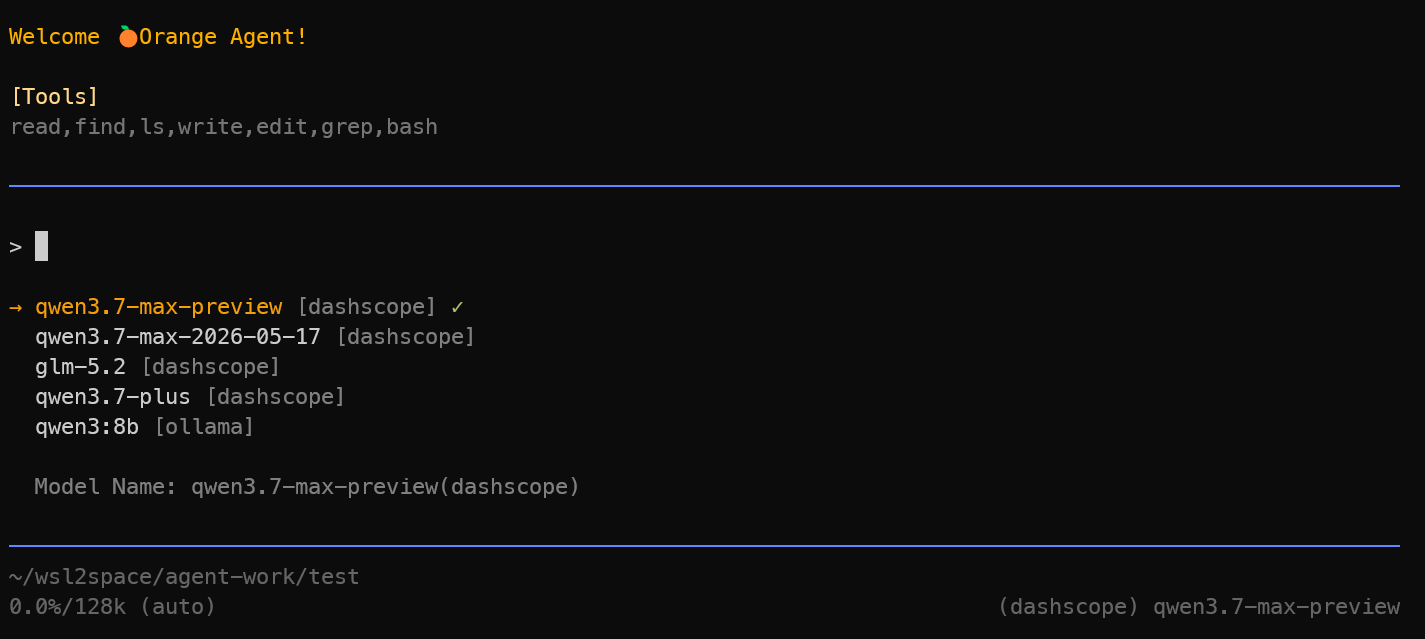
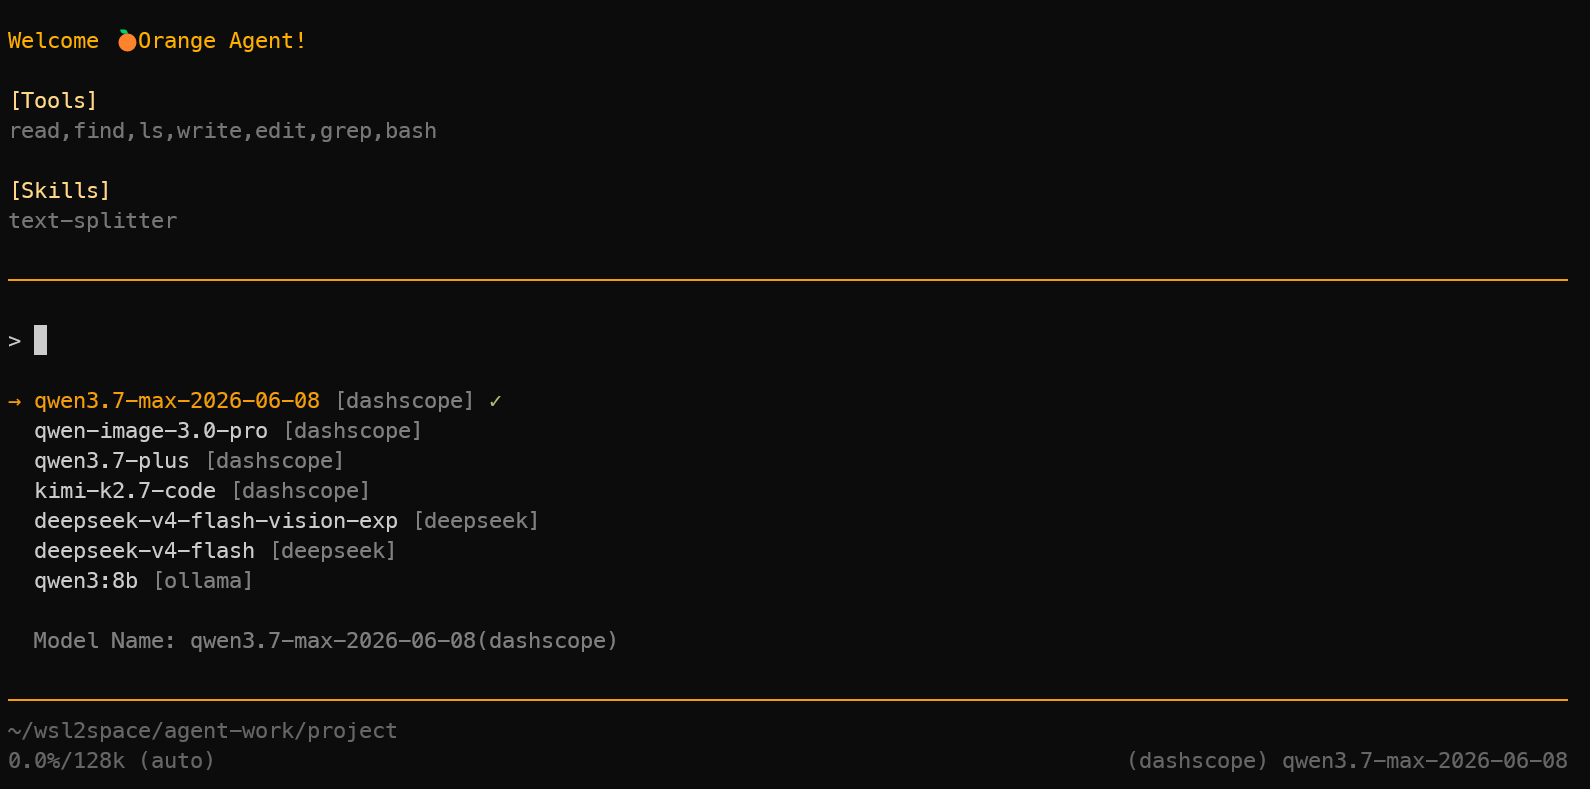
fix responese api

diff --git a/src/agent-ai/providers/openai-responses.ts b/src/agent-ai/providers/openai-responses.ts
@@ -37,7 +37,7 @@ import { transformMessages } from "./transform-messages.ts"
 import { headersToRecord } from "../../utils/headers.ts"
 import { OpenAIResponsesCompat } from "./provider_types.ts"
 import { buildBaseOptions } from "./simple-options.ts"
-import { clampThinkingLevel } from "../models.ts"
+import { clampThinkingLevel, calculateCost } from "../models.ts"
 
 // 本项目使用 FunctionTool 类型, 因为OpenAI.Responses.Tool 是更广的通用类型
 export type ChatTool = OpenAI.Responses.FunctionTool
@@ -432,6 +432,29 @@ export const streamOpenAIResponses: StreamFunction<"openai-responses", OpenAIRes
                     // 整个 response 完成 所有 item 已生成结束
                     case "response.completed": {
                         const response = event.response
+                        if (response?.id) {
+                            output.responseId = response.id
+                        }
+                        if (response?.usage) {
+                            const cachedTokens =
+                                response.usage.input_tokens_details?.cached_tokens || 0
+                            output.usage = {
+                                // OpenAI includes cached tokens in input_tokens, so subtract to get non-cached input
+                                input: (response.usage.input_tokens || 0) - cachedTokens,
+                                output: response.usage.output_tokens || 0,
+                                cacheRead: cachedTokens,
+                                cacheWrite: 0,
+                                totalTokens: response.usage.total_tokens || 0,
+                                cost: {
+                                    input: 0,
+                                    output: 0,
+                                    cacheRead: 0,
+                                    cacheWrite: 0,
+                                    total: 0,
+                                },
+                            }
+                        }
+                        calculateCost(model, output.usage)
 
                         // Map status to stop reason
                         output.stopReason = mapStopReason(response?.status)

diff --git a/README.md b/README.md
@@ -375,24 +375,6 @@ ripgrep 按以下顺序读取忽略文件：
 
 ---
 
-
-## 上下文压缩测试用例
-
-以下提示词可生成超长多轮对话，用于验证 `/compact` 压缩能力：
-
-```text
-我正在启动一个代号为「Project Lighthouse」（灯塔计划）的开源智能家居项目。请为我新建一个文本文件，撰写一份长达 800 字的项目愿景声明，
-重点阐述为什么「边缘计算」比「云计算」更适合隐私保护。请务必在声明的最后一段提及：我们的初始启动资金是 320 万美元，且核心团队拒绝任何风险投资。
-
-针对上述愿景，请详细对比 Zigbee 和 Z-Wave 两种协议在开源社区中的支持度。请写一篇约 1000 字的技术分析，并强制要求：在对比表格的下方，
-用加粗字体写下结论——「我们最终选择 Zigbee 3.0，因为它拥有更开放的 MAC 层许可」。
-
-现在，请虚构一位我们的典型种子用户。姓名叫「王建军」，52 岁，居住在中国成都，是一名退休的无线电工程师。请写一段 800 字的人物画像，
-强调他非常介意数据被互联网大厂获取，且他的儿子在国外留学，需要通过特定端口转发才能访问家里设备。
-```
-
----
-
 ## 开发
 
 ```bash
@@ -404,6 +386,198 @@ bun run build
 
 # 代码格式化
 bunx prettier --write .
+```
+---
+
+
+## 上下文压缩测试用例
+
+以下提示词可生成超长多轮对话，用于验证 `/compact` 压缩能力：
+
+### Prompt 1
+```text
+我需要你帮我制定一个 SaaS 产品在美国市场发布的 go-to-market 计划。先不要急着给完整方案。接下来我会逐步告诉你背景、约束和我的偏好。你需要记住这些信息，并在后续方案中持续使用它们。
+```
+
+### Prompt 2
+```text
+我们是一家日本 SaaS 公司，产品是一个面向 20～200 人规模公司的 AI 客服平台。目前主要市场在日本，美国市场还没有正式上线。美国市场的首发预算是 10 万美元，包含 marketing、广告、PR 和活动费用，但不包含人员工资。第一阶段目标是上线后的 6 个月内获得 50 个付费美国客户。
+```
+
+### Prompt 3
+```text
+我们的目标客户不是大型 Enterprise。
+第一阶段主要针对：
+- 20～200 人规模的 B2B SaaS、电商和互联网公司
+- 客服团队大约 5～30 人
+- 已经在使用 Zendesk、Intercom 或类似产品
+- 对 AI customer support 有兴趣
+不要把 Fortune 500 当成第一阶段目标客户。
+```
+
+### Prompt 4
+```text
+还有一个很重要的限制：
+我们现在没有美国本地销售团队。
+只有：
+- 2 个日本销售
+- 1 个日本 marketing
+- 2 个工程师
+- CEO 可以参与美国市场活动，但每个月最多只能去美国一次。
+所以第一阶段不能设计成严重依赖线下销售拜访的模式。
+```
+
+### Prompt 5
+```text
+关于品牌定位，我不希望把产品宣传成“便宜的日本 AI 客服工具”。
+我们的定位应该更偏向：
+“AI customer support platform for growing SaaS and digital businesses”
+强调：
+- AI automation
+- 降低 support workload
+- 能和现有 support stack 集成
+- implementation 简单
+不要把“日本公司”作为核心卖点。
+```
+
+### Prompt 6
+```text
+渠道方面，我比较倾向于：
+1. Content / SEO
+2. Product-led growth
+3. Partner / integration
+4. LinkedIn
+我不希望第一阶段大量烧 Google Ads。
+原因是我们的品牌在美国还没有知名度，我担心直接买流量 CAC 会很高。
+```
+
+### Prompt 7
+```text
+关于活动：
+我们可以参加美国的 SaaS conference，但第一阶段最多参加两个。
+我比较倾向于 SaaStr 这一类 SaaS 活动。
+不要建议参加大量泛科技大会。
+```
+
+### Prompt 8
+```text
+现在加入几个已经确定的决策：
+
+1. 美国官网必须在 launch 前完成。
+2. 必须提供英文 demo。
+3. 必须提供至少一个美国客户 case study。
+4. pricing 页面不能显示日元，只显示美元。
+5. 第一阶段不做免费人工 onboarding。
+6. 可以提供 14 天 free trial。
+```
+
+### Prompt 9
+```text
+再补充几个细节，你后面需要记住：
+我们现在已经有一个 Shopify integration。
+Zendesk integration 预计 launch 后 2 个月才能完成。
+Intercom integration 暂时没有开发计划。
+所以 launch day 的主要 integration 卖点应该是 Shopify，而不是 Zendesk。
+```
+
+### Prompt 10
+```text
+我个人比较担心一个问题：
+美国客户可能会担心数据隐私。
+所以 marketing message 里面不能轻易声称“完全安全”或者“100% compliant”。
+如果涉及 compliance，要明确区分我们已经具备的能力和未来计划。
+```
+
+### Prompt 11
+```text
+目前有三个内部候选方案：
+A：大量 Google Ads + SDR outbound
+B：Content/SEO + PLG + LinkedIn + 少量 conference
+C：找美国 reseller / agency，让 partner 帮我们卖 
+我目前最倾向 B。但还没有最终决定。
+```
+
+### Prompt 12
+```text
+我们刚才讨论过一个方案：
+第一阶段直接找 5 个美国 reseller。
+但我认为这个方案暂时不合适，因为 partner enablement 成本太高，而且我们目前没有专门的人维护 partner。
+所以：
+不要把“5 个 reseller”当成已经确定的 launch strategy。
+可以保留 partner channel，但应该作为后续验证方向。
+```
+### 在这 /compact
+
+### Prompt 13
+```text
+现在先不要给最终 GTM。
+目前还有三个问题没有解决：
+1. 10 万美元具体怎么分配
+2. 6 个月获得 50 个客户的 funnel 怎么设计
+3. launch 前 8 周具体应该做什么
+把这三个问题记住，后面我们继续解决。
+```
+
+### Final Test Prompt
+```text
+好，现在直接继续我们的 GTM 计划。
+请你基于我们前面已经讨论和确定的信息，给我一份：
+“美国市场 Launch 前 8 周执行计划”。
+要求：
+1. 按 Week 8 → Week 1 倒排
+2. 每周列出最重要的 3～5 个动作
+3. 给每个动作标注负责人
+4. 给出预算
+5. 明确哪些事情必须在 launch 前完成
+6. 最后说明为什么你的方案适合我们目前的团队规模
+不要重新向我确认已经讨论过的信息。
+另外，特别注意：
+- 不要把 Zendesk integration 当成 launch day 已经完成
+- 不要把 reseller 作为既定 launch strategy
+- 不要把 Fortune 500 当成第一阶段 ICP
+- 不要把 Google Ads 作为主要获客渠道
+- 不要设计大量依赖美国线下销售拜访的方案
+```
+
+### 测试关键信息
+| 信息                     | Compression 后是否保留 |
+| ---------------------- | ----------------- |
+| $100k budget           | ✅                 |
+| 6个月 50客户               | ✅                 |
+| 20–200人 ICP            | ✅                 |
+| 非 Fortune 500          | ✅                 |
+| 没有美国销售团队               | ✅                 |
+| CEO 每月最多去美国一次          | ✅                 |
+| Shopify 已有 integration | ✅                 |
+| Zendesk 2个月后才有         | ✅                 |
+| Intercom 暂无计划          | ✅                 |
+| 14天 trial              | ✅                 |
+| 不做免费人工 onboarding      | ✅                 |
+| USD pricing            | ✅                 |
+| 美国 customer case study | ✅                 |
+| 不做夸大的 compliance claim | ✅                 |
+| 偏好 B                   | ✅                 |
+| Google Ads 非主要渠道       | ✅                 |
+| 最多两个 conference        | ✅                 |
+| reseller 不是既定 strategy | ✅                 |
+| 三个 pending questions   | ✅                 |
+
+
+### 二阶段测试提示词
+
+```text
+我们现在发现 launch 前预算只有 70,000 美元，而不是原来的 100,000 美元。
+请你不要重新制定整个 GTM。
+
+只修改受影响的部分，并保持之前已经确定的：
+- ICP
+- positioning
+- Shopify launch
+- Zendesk timeline
+- 14-day trial
+- channel preference
+
+同时告诉我，你放弃了哪些原计划，以及为什么。
 ```
 
 ---
